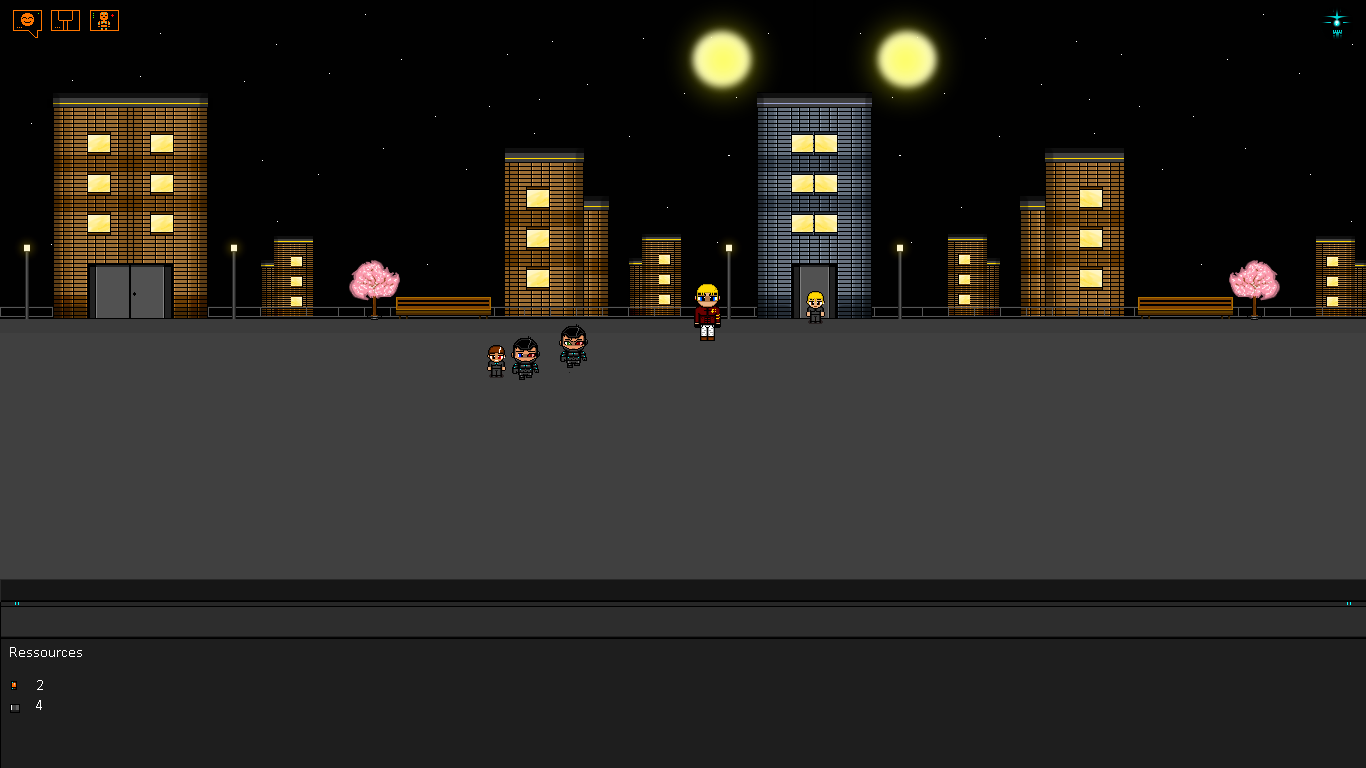
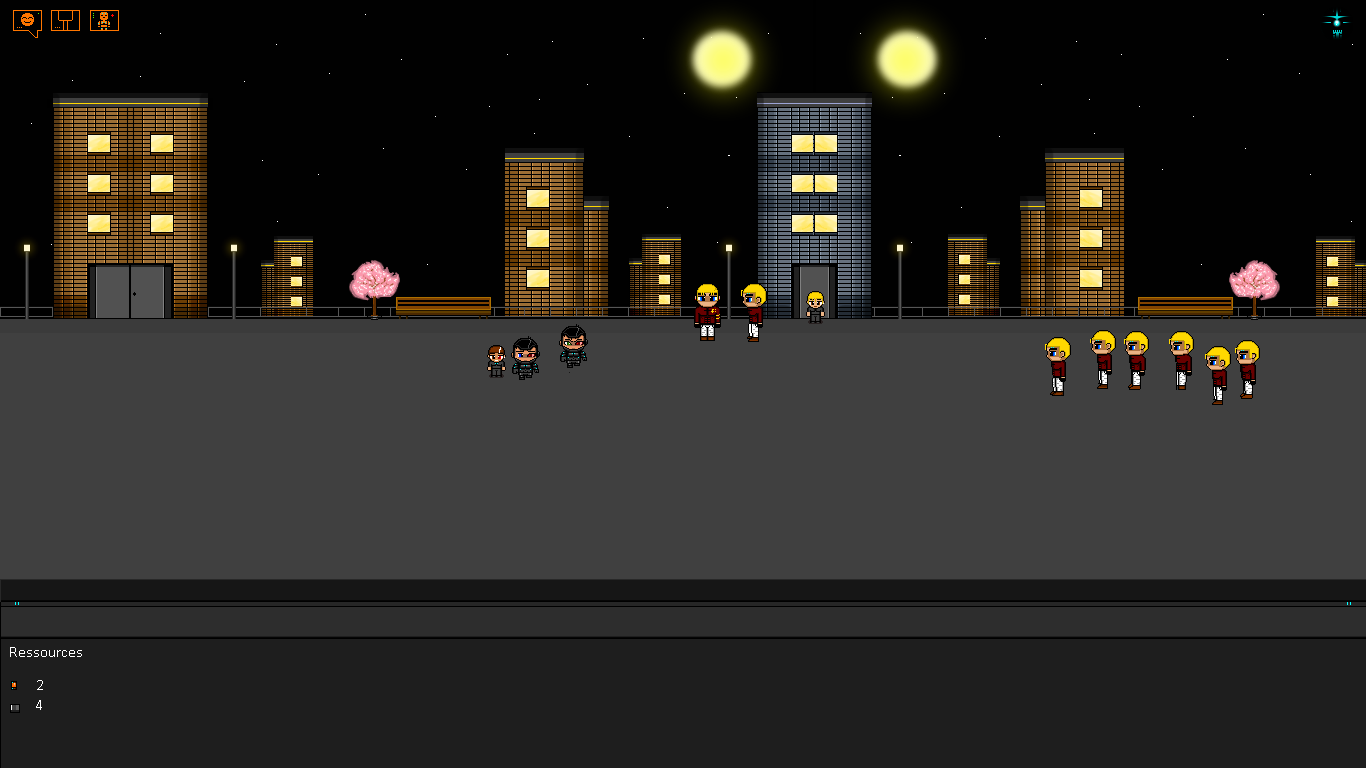
Added my project

Changed region(s): [[0.7687, 0.4062, 0.9224, 0.5312], [0.5227, 0.375, 0.5842, 0.4375]]

diff --git a/resources/js/modules/scenes/scene1.js b/resources/js/modules/scenes/scene1.js
@@ -1,54 +1,81 @@
-document.wind
-var config = {
-    type: Phaser.AUTO,
+let touchesclavier
+let personnage
 
-    width: 1366,
-    height: 768,
-    physics: {
-        default: 'arcade',
-        arcade: {
-            gravity: { y: 200 }
-        }
-    },
-    scene: {
-        preload: preload,
-        create: create
-    },
-    /* scale: {
-        parent: "body",
-        mode: Phaser.Scale.FIT,
-        autoCenter: Phaser.Scale.CENTER_BOTH
-    } */
-};
 
-export var game = new Phaser.Game(config);
+export class Acceuil extends Phaser.Scene {
+    constructor() {
+        super("Acceuil");
+    }
+    //-----------------------------------
+    preload() {
+        /*     this.load.setBaseURL('http://labs.phaser.io'); */
 
-function preload() {
-    /*     this.load.setBaseURL('http://labs.phaser.io'); */
+        /* this.load.image('sky', 'assets/skies/space3.png');
+        this.load.image('logo', 'assets/sprites/phaser3-logo.png');
+        this.load.image('red', 'assets/particles/red.png'); */
+        this.load.image('fond', '../img/Map test.png')
+        this.load.image('particule', '../img/particulerouge.png');
+        this.load.spritesheet("personnage", "../img/sprite1.png", {
+            frameWidth: 46,
+            frameHeight: 63
+        });
+    }
 
-    /* this.load.image('sky', 'assets/skies/space3.png');
-    this.load.image('logo', 'assets/sprites/phaser3-logo.png');
-    this.load.image('red', 'assets/particles/red.png'); */
-    this.load.image('fond', '../img/Map test.png')
-    this.load.image('particule', '../img/particulerouge.png');
-}
+    create() {
+        this.add.image(683, 384, 'fond');
+        personnage = this.physics.add
+            .sprite(500, 246, "personnage")
+            .setInteractive(this.input.makePixelPerfect()).setSize(63, 46, true).setBounce(1, 1).setCollideWorldBounds(true);
+        /* $spriteildaa.setSize(228, 757, true);
+        $spriteildaa.setDepth(2);
+        $spriteildaa.setScale(0.7, 0.7); */
 
-function create() {
-    this.add.image(683, 384, 'fond');
+        var particles = this.add.particles('particule');
 
-    var particles = this.add.particles('particule');
+        var emitter = particles.createEmitter({
+            speed: 100,
+            scale: { start: 1, end: 0 },
+            blendMode: 'ADD'
+        });
 
-    var emitter = particles.createEmitter({
-        speed: 100,
-        scale: { start: 1, end: 0 },
-        blendMode: 'ADD'
-    });
+        var logo = this.physics.add.image(400, 100, 'logo');
 
-    var logo = this.physics.add.image(400, 100, 'logo');
+        logo.setVelocity(100, 200);
+        logo.setBounce(1, 1);
+        logo.setCollideWorldBounds(true);
 
-    logo.setVelocity(100, 200);
-    logo.setBounce(1, 1);
-    logo.setCollideWorldBounds(true);
+        emitter.startFollow(logo);
 
-    emitter.startFollow(logo);
+
+        this.anims.create({
+            key: "bas",
+            frames: this.anims.generateFrameNumbers("personnage", {
+                frames: [0, 1, 0, 2]
+            }),
+            frameRate: 5,
+            repeat: -1
+
+        });
+        touchesclavier = this.input.keyboard.createCursorKeys();
+
+
+        touchesclavier.down.on("down", function (event) {
+
+
+            personnage.setVelocity(0, 120);
+
+            personnage.play("bas");
+
+        });
+    }
+    update() {
+
+        touchesclavier.down.on("up", function (event) {
+            personnage.stop();
+            //  perso.play("walk");
+            personnage.setVelocity(0, 0);
+        });
+    }
+
+
 }

diff --git a/resources/js/modules/index.js b/resources/js/modules/index.js
@@ -1,17 +1,47 @@
 //TODO ----------------------------------------------
-//TODO ------- IMPORTS ET DECLARATION -----
+//TODO ------- Main Script -----
 //TODO ----------------------------------------------
+
+
+//TODO ------- IMPORTS ET DECLARATION -----
+
 const genius = $
+/* import { Phaser } from "../phaser.js"; */
 import { Joueur } from "./classes.js";
 import { prenom, modifierargent } from "./module1.js";
- import { game } from "./scenes/scene1.js"; 
+import { Acceuil } from "./scenes/scene1.js";
+/* import { game } from "./scenes/scene1.js"; */
+oncontextmenu = () => {
+    return false
+}
+//TODO ------- programme -----
+
 console.log(genius.date());
-export let joueur = new Joueur('Invité')
+let joueur = new Joueur('Invité')
 console.log(prenom);
 console.log(joueur);
 /* console.log(game); */
 console.log(window.innerWidth);
 console.log(window.innerHeight);
+//TODO ------- PHASER -----
+var config = {
+    type: Phaser.AUTO,
+    width: 1366,
+    height: 768,
+    pixelArt: true,
+    physics: {
+        default: 'arcade',
+        arcade: {
+            gravity: { y: 0 }
+        }
+    },
+    scene: [Acceuil],
+};
+
+var game = new Phaser.Game(config);
+
+//TODO ------- EVENTS -----
+
 genius.event("#button", "mousedown", () => {
     modifierargent(joueur, 10)
 })

diff --git a/resources/js/main.js b/resources/js/main.js
@@ -18,6 +18,7 @@ Neutralino.events.on('ready', () => {
 //TODO ------- LANCEMENT -----
 
 Neutralino.init();
+Neutralino.window.focus();
 
 //TODO ------- NEUTRALINO EVENT-----
 
